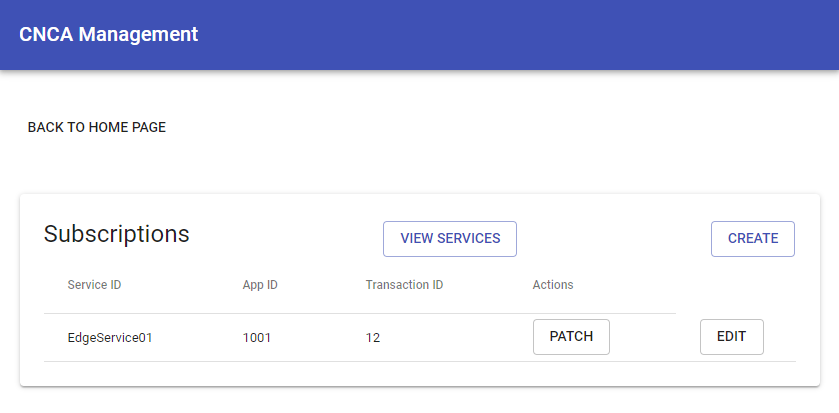
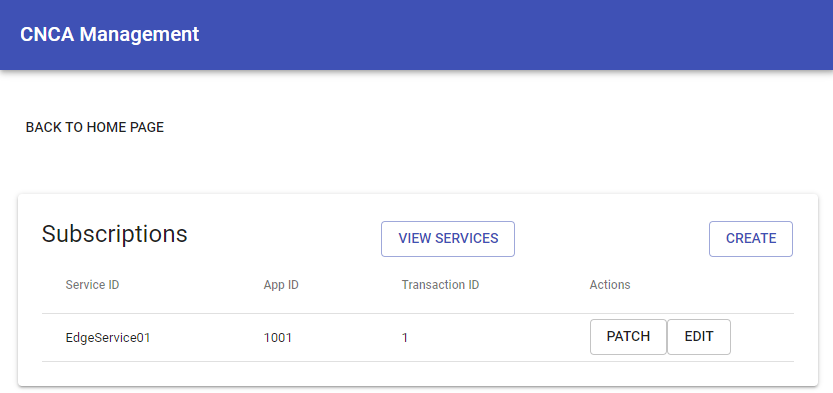
Update CNCA UI steps for On-Premises mode

diff --git a/doc/applications-onboard/using-openness-cnca.md b/doc/applications-onboard/using-openness-cnca.md
@@ -125,7 +125,7 @@ In case of On-Premises deployment mode, Core network can be configured through t
 
     `make all-up`
 
-    `make cups-ui-up`
+    > NOTE: To bring up just the CUPS UI run `make cups-ui-up`
   - Check whether controller CUPS UI already bring up by: 
 
 ```
@@ -375,7 +375,7 @@ policy:
 ### Configuring in On-Premises mode
 
   OpenNESS On-Premises management homepage:
-      sample url: http://10.233.182.33:3000/landing
+      sample url: http://<controller_ip>:3000/landing
       ![OpenNESS NGC homepage](using-openness-cnca-images/ngc_homepage.png)
 
 #### Edge Node services operations with 5G Core (through OAM interface)
@@ -386,7 +386,7 @@ policy:
 ##### Registration of UPF services associated with Edge-node with 5G Core
 
    * Edge services registration home page:
-      sample url: http://10.233.182.33:3020/services
+      sample url: http://<cnca_ui_ip>:3020/services
       ![Edge services operations homepage](using-openness-cnca-images/oam_services_home.png)
 
    * Registration of a new edge service offered by UPF (associated with edge-node)
@@ -404,7 +404,7 @@ policy:
 #### Traffic influence operations with 5G Core (through AF interface)
 
    * Edge traffic subscription submission homepage
-      sample url: http://10.233.182.33:3020/subscriptions
+      sample url: http://<cnca_ui_ip>:3020/subscriptions
       ![Subscription services homepage](using-openness-cnca-images/af_subscription_display_home.png)
 
    * Edge traffic subscription submissions with 5G-Core (NEF)
@@ -418,6 +418,9 @@ policy:
 
    * To edit a submitted edge traffic subscription
       ![Subscription service edit](using-openness-cnca-images/af_subscription_edit.png)
+
+   * To patch a submitted edge traffic subscription
+      ![Subscription service patch](using-openness-cnca-images/af_subscription_patch.png)
 
    * To delete a submitted edge traffic subscription
       ![Subscription service delete](using-openness-cnca-images/af_subscription_delete.png)
